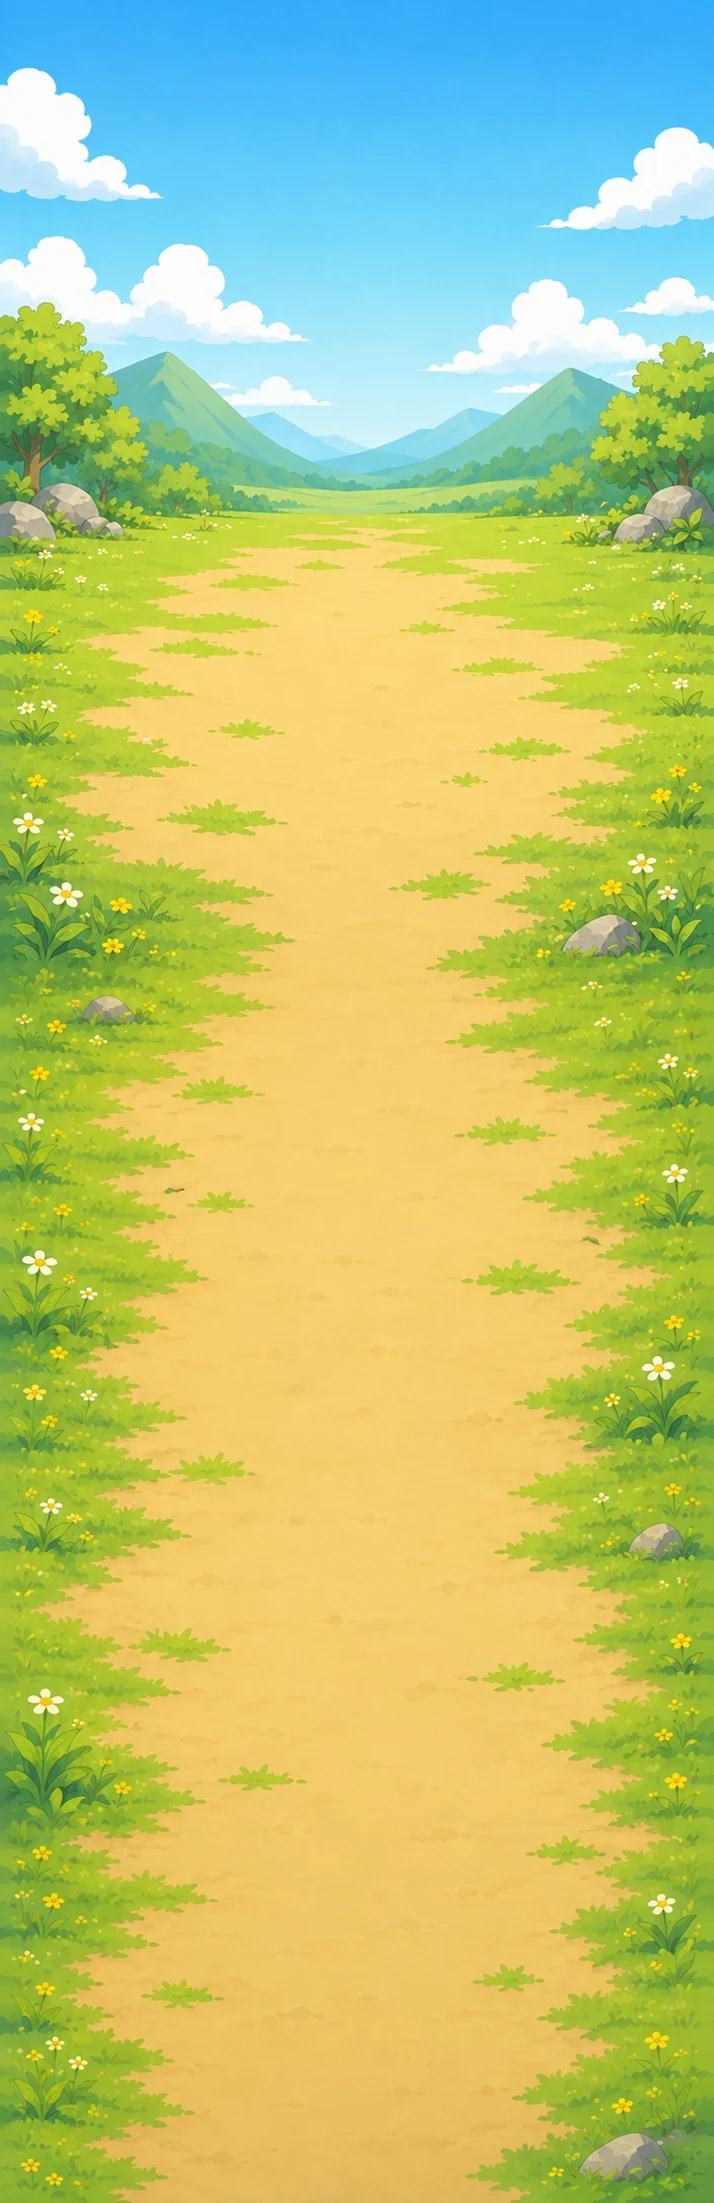
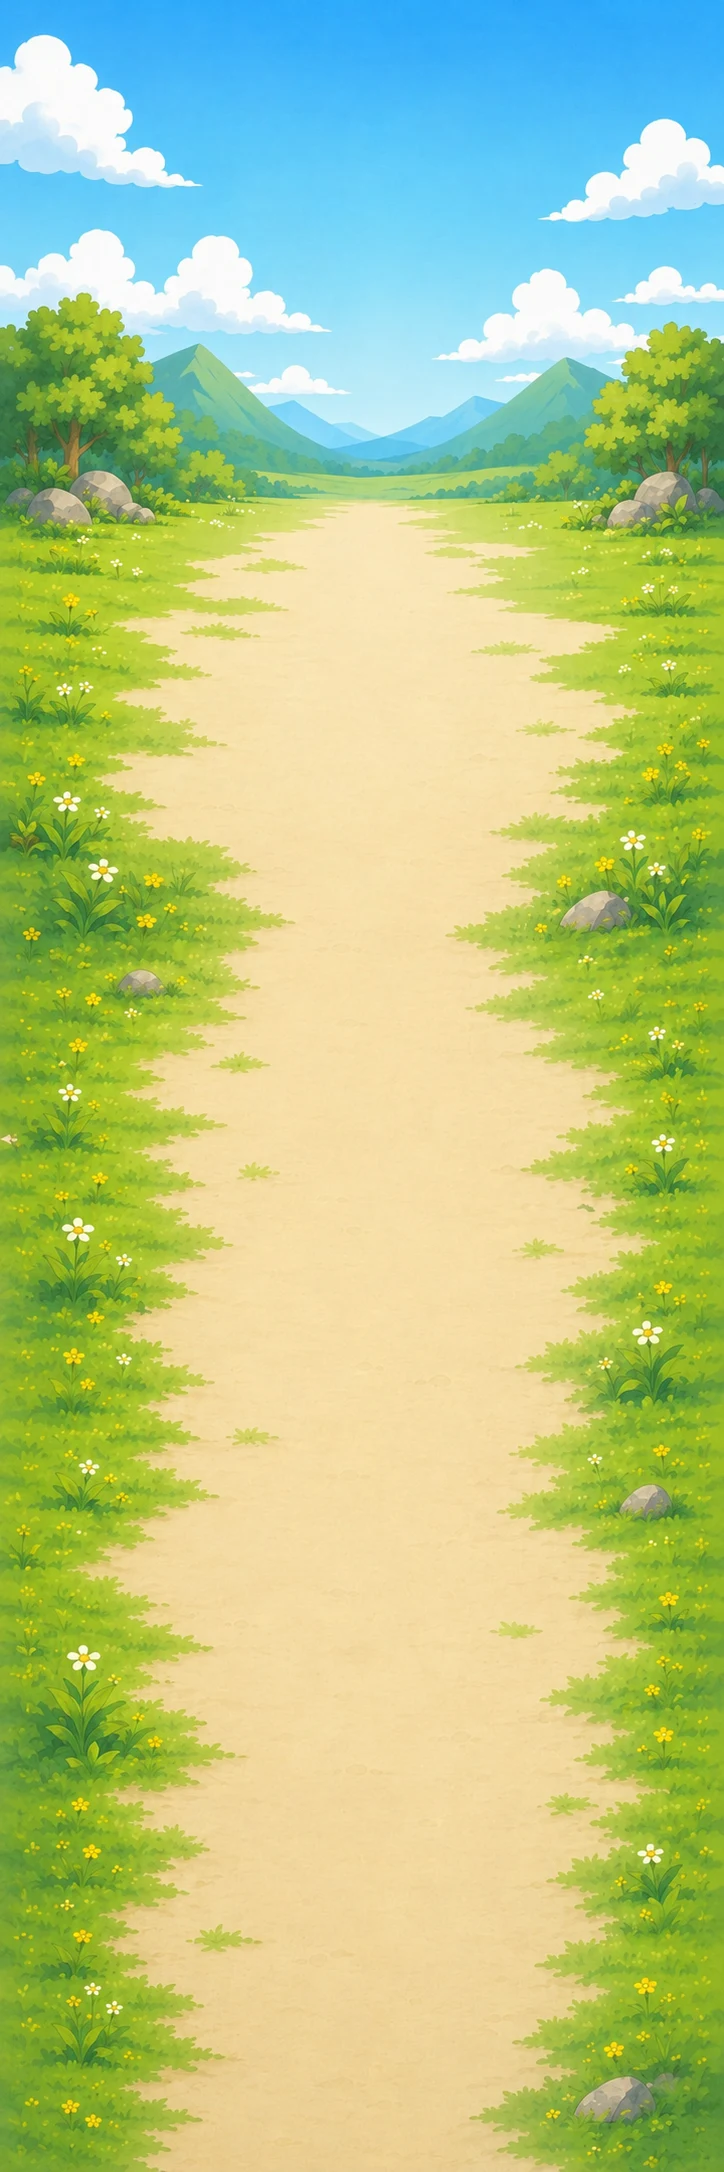
feat(camp): 캐릭터 탭 배경을 v2(724×2172 = 1:3.00)로 교체
사용자가 배치 비율에 맞춘 새 배경을 줬다.

- public/assets/camp/bg.webp — 714×2203(1:3.09) → 724×2172(1:3.00), 175KB
  원본 PNG 2.06MB → webp q88 175KB.
- 원화는 art-src/camp-bg-v2-src.webp 로 보관, v1 원본과 README 행은 삭제
  (CLAUDE.md 5·6)
- 시안 주석의 비율 설명도 실제 값으로 고침

'작게' 배치가 1:3.00인데 그림도 1:3.00이라 위아래 잘림이 0%다.
(좌우 1.56%는 폰 화면비가 정확히 1:3.00이 아니어서 생기는 것 — 가장자리
 잔디만 아주 살짝 잘리고 흙길·산은 온전하다)

검증: vite build 통과. 실측 — 그림 724×2172, 표시 칸 390×1188.5,
좌우 잘림 1.56% · 위아래 잘림 0%.

Claude-Session: https://claude.ai/code/session_018maNuYqDfFyRSe9uKpZhPR

diff --git a/src/components/camp/CampPrototype.jsx b/src/components/camp/CampPrototype.jsx
@@ -128,8 +128,8 @@ export default function CampPrototype({ onClose }) {
       <div style={{ width:TAB_W, flex:1, overflowY:"auto", background:"#000", WebkitOverflowScrolling:"touch" }}>
         <div ref={sceneRef} style={{ position:"relative", minHeight:"100%",
           background:CAMP.grass, paddingBottom:24 }}>
-          {/* 배경 원화 — 714×2203(1:3.09). '작게' 배치(1:3.00)에 맞춰 받은 그림이라
-              위아래 3%만 잘리고 좌우는 안 잘린다. */}
+          {/* 배경 원화 — 724×2172(1:3.00). '작게' 배치와 비율이 정확히 같아
+              가로세로 어느 쪽도 잘리지 않는다. */}
           <img src="assets/camp/bg.webp" alt="" draggable={false}
             style={{ position:"absolute", inset:0, width:"100%", height:"100%",
               objectFit:"cover", objectPosition:"center top", pointerEvents:"none", zIndex:0 }} />

diff --git a/art-src/README.md b/art-src/README.md
@@ -208,4 +208,4 @@ halo가 외곽선을 흐려서 생긴 착시였다.
 | expedition/ride/submarine-src.webp | 탑승 원화 32 잠수정 — 바다 변형 (탈것+앉은 캐릭터 한 장, halo 보정 후 탑재) | expedition/ride/submarine.webp |
 | expedition/char/common-run-src.webp | 탐험 씬 달리기 포즈 (초원 전용 — 이동 속도도 조금 빠르게, halo 보정 후 탑재) | expedition/char/common-run.webp |
 | bg-adventure-meadow-v4-src.webp | 탐험 모드 무대 기본 배경 v4 (868×1813 = 1:2.09 — 무대 칸 비율에 맞춘 세로 긴 판, 받은 그대로 톤 보정 없음, 현행) | stage-adventure-meadow.webp |
-| camp-bg-v1-src.webp | 캐릭터 탭 캠프 배경 v1 (714×2203 = 1:3.09 — 하늘·산·숲 + 아래로 이어지는 흙길, 현행) | camp/bg.webp |
+| camp-bg-v2-src.webp | 캐릭터 탭 캠프 배경 v2 (724×2172 = 1:3.00 — 배치 비율과 정확히 일치, 하늘·산·숲 + 아래로 이어지는 흙길, 현행) | camp/bg.webp |
